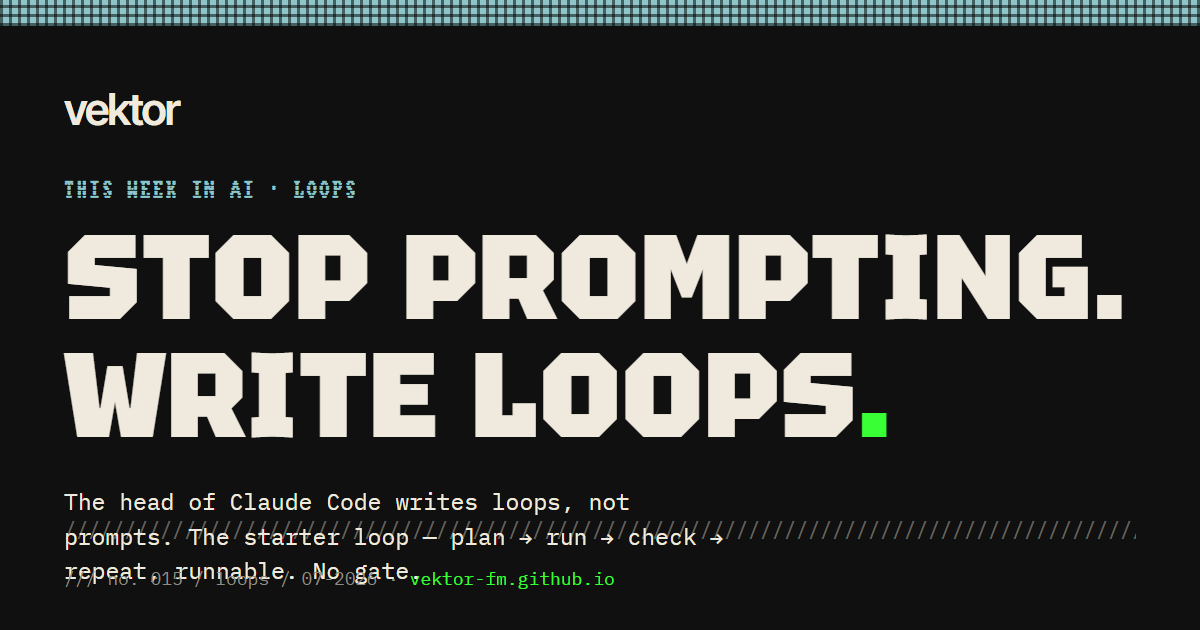
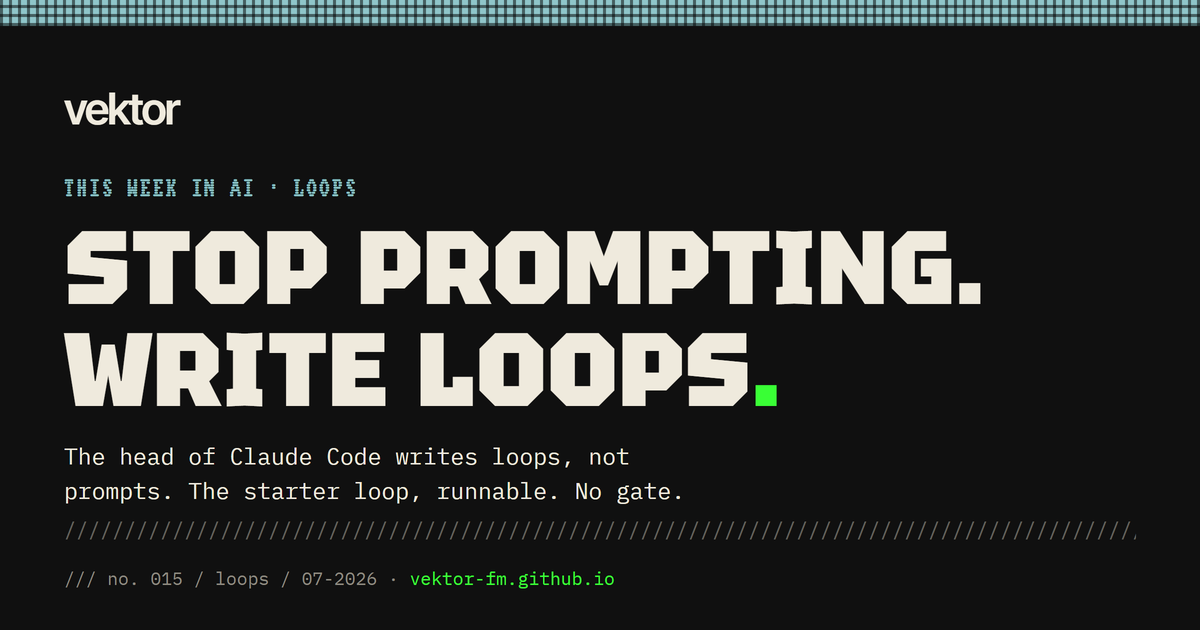
Normalize OG cards 004/006/007/015: sub clears the hatch rule, 104px set scale
The four older cards struck the bottom hatch rule (007 by 59px, 015 by
73px; 004/006 by 3-11px) — same defect fixed on 008-012 in the taste
pass. Same recipe: headline 104px, sub margin 18, subs trimmed to two
lines (007 drops the fork-honesty clause, 015 the loop-steps list —
both remain faithful). Measured before render: all four subs end
508-510px vs the rule at 515. Judge: SHIP 4/4. The 11-card set is now
uniform.

diff --git a/og-src-no-007.html b/og-src-no-007.html
@@ -12,9 +12,9 @@ body{background:#101010;color:#EFEADD;font-family:'IBM Plex Mono',monospace;posi
 .weave{position:absolute;top:0;left:0;height:26px;width:100%;background-color:#C77BC9;background-image:repeating-linear-gradient(90deg,rgba(16,16,16,.55) 0 3px,transparent 3px 9px),repeating-linear-gradient(0deg,rgba(16,16,16,.55) 0 3px,transparent 3px 9px),repeating-linear-gradient(90deg,rgba(255,255,255,.25) 0 1px,transparent 1px 9px);background-blend-mode:multiply;}
 .wm{font-family:'Inter Tight',sans-serif;font-weight:600;letter-spacing:-0.045em;font-size:44px;margin-top:26px;}
 .kick{font-family:'Workbench',monospace;text-transform:uppercase;letter-spacing:0.14em;font-size:20px;color:#C77BC9;margin-top:44px;}
-h1{font-family:'Tektur',sans-serif;font-weight:900;text-transform:uppercase;line-height:0.98;letter-spacing:0.005em;font-size:116px;margin-top:16px;}
+h1{font-family:'Tektur',sans-serif;font-weight:900;text-transform:uppercase;line-height:0.98;letter-spacing:0.005em;font-size:104px;margin-top:16px;}
 h1 .dot{color:#39FF35;}
-.sub{font-size:23px;line-height:1.5;margin-top:26px;max-width:48ch;color:#EFEADD;}
+.sub{font-size:23px;line-height:1.5;margin-top:18px;max-width:48ch;color:#EFEADD;}
 .rule{position:absolute;left:64px;right:64px;bottom:88px;color:rgba(239,234,221,0.4);font-size:20px;white-space:nowrap;overflow:hidden;}
 .meta{position:absolute;left:64px;bottom:40px;font-size:18px;color:#8f8b80;}
 .meta b{color:#39FF35;font-weight:400;}
@@ -24,7 +24,7 @@ h1 .dot{color:#39FF35;}
 <div class="wm">vektor</div>
 <div class="kick">Repo of the Day · The Port</div>
 <h1>1.6M lines.<br>On iPhone<span class="dot">.</span></h1>
-<p class="sub">Command &amp; Conquer Generals — the whole C++ game — running native on iPhone. The repo, plus the honest version of who built what. No gate.</p>
+<p class="sub">Command &amp; Conquer Generals — the whole C++ game — running native on iPhone. The repo. No gate.</p>
 <div class="rule">////////////////////////////////////////////////////////////////////////////////////////////////////////////////</div>
 <div class="meta">/// no. 007 / the port / 07-2026 · <b>vektor-fm.github.io</b></div>
 </body></html>

diff --git a/og-src-no-015.html b/og-src-no-015.html
@@ -12,9 +12,9 @@ body{background:#101010;color:#EFEADD;font-family:'IBM Plex Mono',monospace;posi
 .weave{position:absolute;top:0;left:0;height:26px;width:100%;background-color:#8FC5C9;background-image:repeating-linear-gradient(90deg,rgba(16,16,16,.55) 0 3px,transparent 3px 9px),repeating-linear-gradient(0deg,rgba(16,16,16,.55) 0 3px,transparent 3px 9px),repeating-linear-gradient(90deg,rgba(255,255,255,.25) 0 1px,transparent 1px 9px);background-blend-mode:multiply;}
 .wm{font-family:'Inter Tight',sans-serif;font-weight:600;letter-spacing:-0.045em;font-size:44px;margin-top:26px;}
 .kick{font-family:'Workbench',monospace;text-transform:uppercase;letter-spacing:0.14em;font-size:20px;color:#8FC5C9;margin-top:44px;}
-h1{font-family:'Tektur',sans-serif;font-weight:900;text-transform:uppercase;line-height:0.98;letter-spacing:0.005em;font-size:120px;margin-top:18px;}
+h1{font-family:'Tektur',sans-serif;font-weight:900;text-transform:uppercase;line-height:0.98;letter-spacing:0.005em;font-size:104px;margin-top:18px;}
 h1 .dot{color:#39FF35;}
-.sub{font-size:23px;line-height:1.5;margin-top:30px;max-width:48ch;color:#EFEADD;}
+.sub{font-size:23px;line-height:1.5;margin-top:18px;max-width:48ch;color:#EFEADD;}
 .rule{position:absolute;left:64px;right:64px;bottom:88px;color:rgba(239,234,221,0.4);font-size:20px;white-space:nowrap;overflow:hidden;}
 .meta{position:absolute;left:64px;bottom:40px;font-size:18px;color:#8f8b80;}
 .meta b{color:#39FF35;font-weight:400;}
@@ -24,7 +24,7 @@ h1 .dot{color:#39FF35;}
 <div class="wm">vektor</div>
 <div class="kick">This Week in AI · Loops</div>
 <h1>Stop prompting.<br>Write loops<span class="dot">.</span></h1>
-<p class="sub">The head of Claude Code writes loops, not prompts. The starter loop — plan → run → check → repeat, runnable. No gate.</p>
+<p class="sub">The head of Claude Code writes loops, not prompts. The starter loop, runnable. No gate.</p>
 <div class="rule">////////////////////////////////////////////////////////////////////////////////////////////////////////////////</div>
 <div class="meta">/// no. 015 / loops / 07-2026 · <b>vektor-fm.github.io</b></div>
 </body></html>

diff --git a/og-src-no-006.html b/og-src-no-006.html
@@ -12,9 +12,9 @@ body{background:#101010;color:#EFEADD;font-family:'IBM Plex Mono',monospace;posi
 .weave{position:absolute;top:0;left:0;height:26px;width:100%;background-color:#8FC5C9;background-image:repeating-linear-gradient(90deg,rgba(16,16,16,.55) 0 3px,transparent 3px 9px),repeating-linear-gradient(0deg,rgba(16,16,16,.55) 0 3px,transparent 3px 9px),repeating-linear-gradient(90deg,rgba(255,255,255,.25) 0 1px,transparent 1px 9px);background-blend-mode:multiply;}
 .wm{font-family:'Inter Tight',sans-serif;font-weight:600;letter-spacing:-0.045em;font-size:44px;margin-top:26px;}
 .kick{font-family:'Workbench',monospace;text-transform:uppercase;letter-spacing:0.14em;font-size:20px;color:#8FC5C9;margin-top:44px;}
-h1{font-family:'Tektur',sans-serif;font-weight:900;text-transform:uppercase;line-height:0.98;letter-spacing:0.005em;font-size:108px;margin-top:18px;}
+h1{font-family:'Tektur',sans-serif;font-weight:900;text-transform:uppercase;line-height:0.98;letter-spacing:0.005em;font-size:104px;margin-top:18px;}
 h1 .dot{color:#39FF35;}
-.sub{font-size:23px;line-height:1.5;margin-top:26px;max-width:48ch;color:#EFEADD;}
+.sub{font-size:23px;line-height:1.5;margin-top:18px;max-width:48ch;color:#EFEADD;}
 .rule{position:absolute;left:64px;right:64px;bottom:88px;color:rgba(239,234,221,0.4);font-size:20px;white-space:nowrap;overflow:hidden;}
 .meta{position:absolute;left:64px;bottom:40px;font-size:18px;color:#8f8b80;}
 .meta b{color:#39FF35;font-weight:400;}

diff --git a/og-src-no-004.html b/og-src-no-004.html
@@ -14,7 +14,7 @@ body{background:#101010;color:#EFEADD;font-family:'IBM Plex Mono',monospace;posi
 .kick{font-family:'Workbench',monospace;text-transform:uppercase;letter-spacing:0.14em;font-size:20px;color:#8FC5C9;margin-top:44px;}
 h1{font-family:'Tektur',sans-serif;font-weight:900;text-transform:uppercase;line-height:0.98;letter-spacing:0.005em;font-size:104px;margin-top:18px;}
 h1 .dot{color:#39FF35;}
-.sub{font-size:23px;line-height:1.5;margin-top:26px;max-width:48ch;color:#EFEADD;}
+.sub{font-size:23px;line-height:1.5;margin-top:18px;max-width:48ch;color:#EFEADD;}
 .rule{position:absolute;left:64px;right:64px;bottom:88px;color:rgba(239,234,221,0.4);font-size:20px;white-space:nowrap;overflow:hidden;}
 .meta{position:absolute;left:64px;bottom:40px;font-size:18px;color:#8f8b80;}
 .meta b{color:#39FF35;font-weight:400;}
